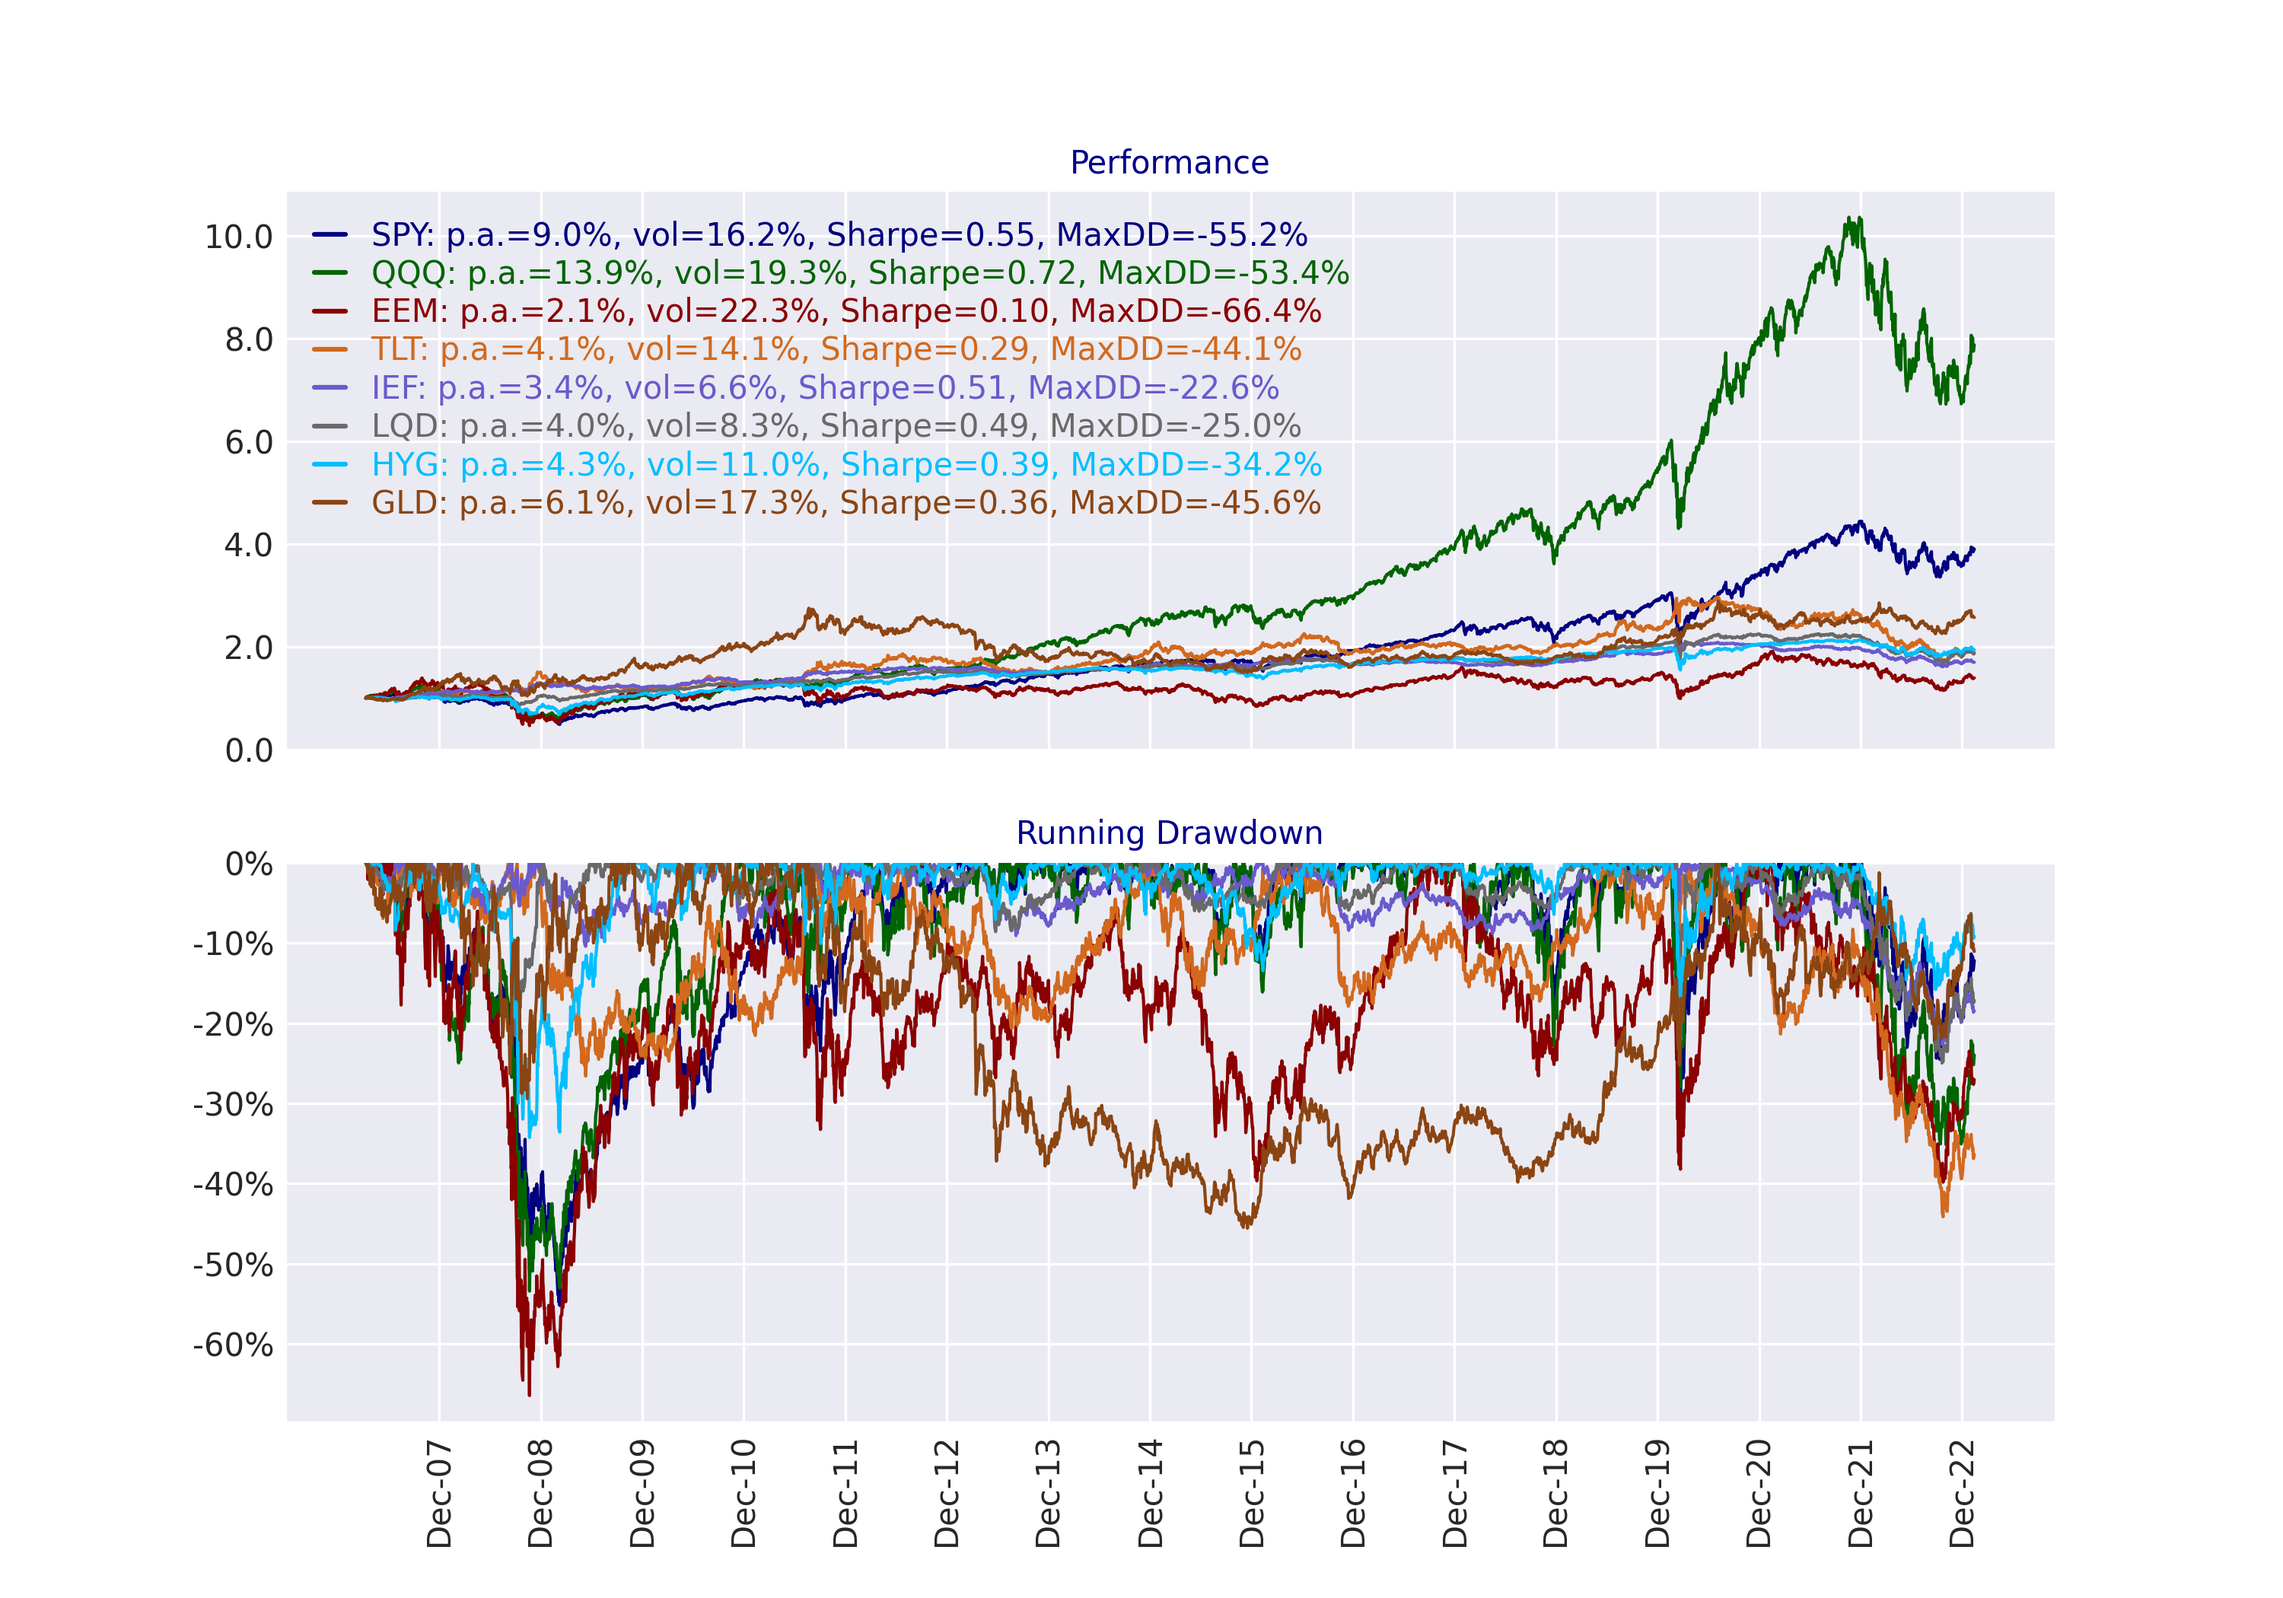
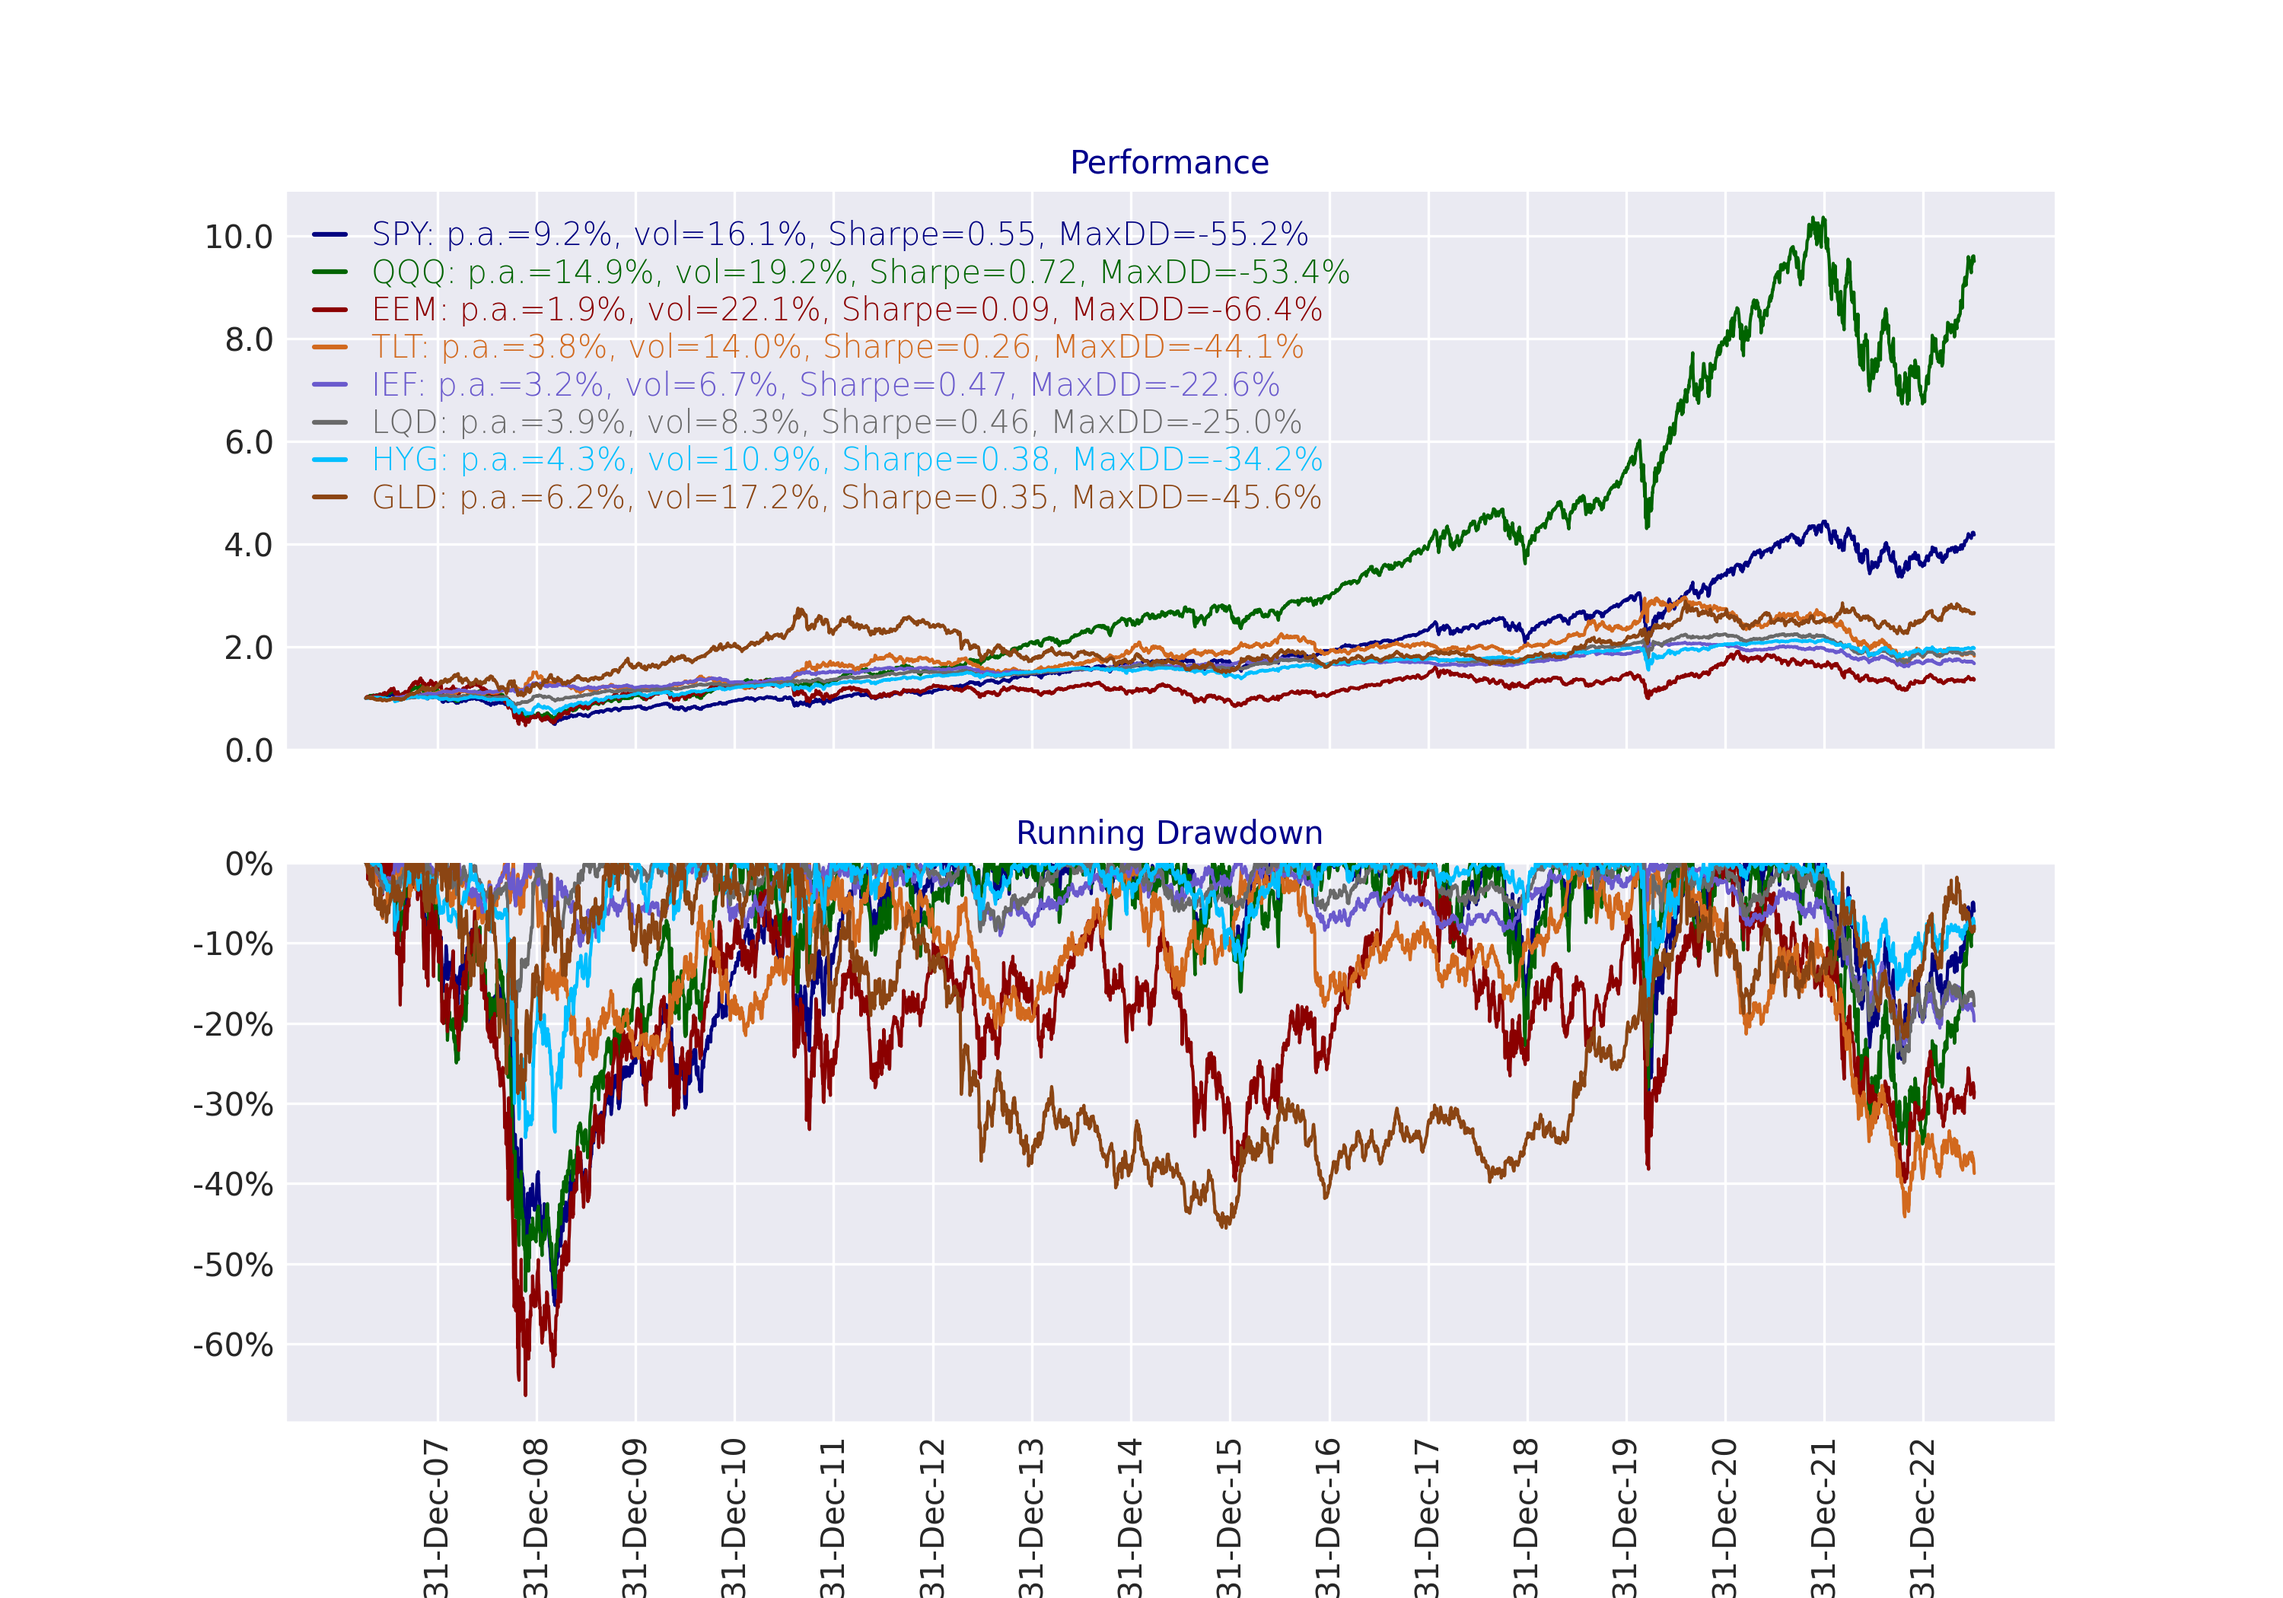
update READMe.md

diff --git a/qis/examples/performances.py b/qis/examples/performances.py
@@ -12,7 +12,9 @@ tickers = ['SPY', 'QQQ', 'EEM', 'TLT', 'IEF', 'LQD', 'HYG', 'GLD']
 prices = yf.download(tickers, start=None, end=None)['Adj Close'][tickers].dropna()
 
 # minimum usage
-fig = qis.plot_prices(prices=prices)
+with sns.axes_style("darkgrid"):
+    fig, ax = plt.subplots(1, 1, figsize=(10, 7))
+    qis.plot_prices(prices=prices, x_date_freq='A', ax=ax)
 
 # skip
 fu.save_fig(fig, file_name='perf1', local_path="figures/")
@@ -20,7 +22,7 @@ fu.save_fig(fig, file_name='perf1', local_path="figures/")
 # with drawdowns using sns styles
 with sns.axes_style("darkgrid"):
     fig, axs = plt.subplots(2, 1, figsize=(10, 7))
-    qis.plot_prices_with_dd(prices=prices, axs=axs)
+    qis.plot_prices_with_dd(prices=prices, x_date_freq='A', axs=axs)
 
 # skip
 fu.save_fig(fig, file_name='perf2', local_path="figures/")

diff --git a/README.md b/README.md
@@ -96,28 +96,29 @@ and thus leveraging QIS visualisation analytics
 
 ### 1. Visualization of price data <a name="price"></a>
 
-The script is located in ```qis.examples.performances```
+The script is located in ```qis.examples.performances``` (https://github.com/ArturSepp/QuantInvestStrats/blob/master/qis/examples/performances.py)
 
 ```python 
 import matplotlib.pyplot as plt
 import seaborn as sns
 import yfinance as yf
 import qis
-from qis import PerfStat
 
 # define tickers and fetch price data
 tickers = ['SPY', 'QQQ', 'EEM', 'TLT', 'IEF', 'LQD', 'HYG', 'GLD']
 prices = yf.download(tickers, start=None, end=None)['Adj Close'][tickers].dropna()
 
 # plotting price data with minimum usage
-fig = qis.plot_prices(prices=prices)
+with sns.axes_style("darkgrid"):
+    fig, ax = plt.subplots(1, 1, figsize=(10, 7))
+    qis.plot_prices(prices=prices, x_date_freq='A', ax=ax)
 ```
 ![image info](qis/examples/figures/perf1.PNG)
 ```python 
 # 2-axis plot with drawdowns using sns styles
 with sns.axes_style("darkgrid"):
     fig, axs = plt.subplots(2, 1, figsize=(10, 7))
-    qis.plot_prices_with_dd(prices=prices, axs=axs)
+    qis.plot_prices_with_dd(prices=prices, x_date_freq='A', axs=axs)
 ```
 ![image info](qis/examples/figures/perf2.PNG)
 ```python 
@@ -140,7 +141,7 @@ This report is adopted for reporting the risk-adjusted performance
 of several assets with the goal
 of cross-sectional comparision
 
-Run example in qis.examples.factsheets.multi_assets.py
+Run example in ```qis.examples.factsheets.multi_assets.py``` https://github.com/ArturSepp/QuantInvestStrats/blob/master/qis/examples/factsheets/multi_assets.py
 
 ![image info](qis/examples/figures/multiassets.PNG)
 
@@ -150,7 +151,7 @@ This report is adopted for report performance, risk, and trading statistics
 for either backtested or actual strategy
     with strategy data passed as PortfolioData object
 
-Run example in qis.examples.factsheets.strategy.py
+Run example in ```qis.examples.factsheets.strategy.py``` https://github.com/ArturSepp/QuantInvestStrats/blob/master/qis/examples/factsheets/strategy.py
 
 ![image info](qis/examples/figures/strategy.PNG)
 
@@ -160,7 +161,7 @@ This report is adopted for report performance and marginal comparison
   of strategy vs a benchmark strategy 
 (data for both are passed using individual PortfolioData object)
 
-Run example in qis.examples.factsheets.strategy_benchmark.py
+Run example in ```qis.examples.factsheets.strategy_benchmark.py``` https://github.com/ArturSepp/QuantInvestStrats/blob/master/qis/examples/factsheets/strategy_benchmark.py
 
 ![image info](qis/examples/figures/strategy_benchmark.PNG)
 
@@ -169,7 +170,7 @@ Run example in qis.examples.factsheets.strategy_benchmark.py
 This report is adopted to examine the sensitivity of 
 backtested strategy to a parameter or set of parameters:
 
-Run example in qis.examples.factsheets.multi_strategy.py
+Run example in ```qis.examples.factsheets.multi_strategy.py``` https://github.com/ArturSepp/QuantInvestStrats/blob/master/qis/examples/factsheets/multi_strategy.py
 
 ![image info](qis/examples/figures/multi_strategy.PNG)
 
